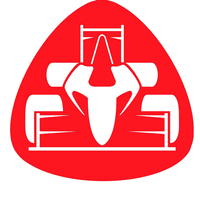
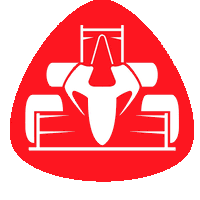
graph semi-functional

diff --git a/main.py b/main.py
@@ -19,7 +19,7 @@ import random
 
 #custom class imports
 from tire_temps import Tire_Temps
-from battery_graph import Battery_Graph
+from parametric_graph import Parametric_Graph
 from parametric_bar import Parametric_Bar
 from pc_status import Pc_Status
 from rpmbar import RpmBar
@@ -30,9 +30,6 @@ from accel import Accel
 from time_table import Time_Table
 from trackmap import TrackMap
 from dashboard import Dashboard
-from left import Left
-from middle import Middle
-from right import Right
 from drs_button import Drs_Button
 
 class Main(Screen):
@@ -42,7 +39,7 @@ class Main(Screen):
 
         #setting up widgets
         self.tire_temps = Tire_Temps(pos_hint={"center_x": 0.5, "y": 0}, size_hint=(0.5, 0.3), temps=[[50, 50, 50, 50], [50, 50, 50, 50], [50, 50, 50, 50], [50, 50, 50, 50]])
-        self.battery = Battery_Graph(pos_hint={"x":0, "y":0.32}, size_hint=(0.3, 0.5), points=[(600,0)])
+        self.battery = Parametric_Graph(pos_hint={"x":0, "y":0.32}, size_hint=(0.25, 0.5), label='Voltage (V)', boundaries=[0, 200, -10, 10])
         self.kw = Parametric_Bar(pos_hint={"x":0.02, "y":0.85}, size_hint=(0.05, 0.13), name="Power(kW)", value=50, max_value=100, color=[0,0,1,1], orientation="vertical")
         self.cur = Parametric_Bar(pos_hint={"x":0.09, "y":0.85}, size_hint=(0.05, 0.13), name="Current(A)", value=0, max_value=100, color=[0,0,1,1], orientation="vertical")
         self.vol = Parametric_Bar(pos_hint={"x":0.16, "y":0.85}, size_hint=(0.05, 0.13), name="Voltage(V)", value=100, max_value=100, color=[0,0,1,1], orientation="vertical")
@@ -55,15 +52,15 @@ class Main(Screen):
         self.bias = Brake_Bias(pos_hint={"x":0.35, "y":0.5}, size_hint=(0.1, 0.1), percentage = 50)
         self.rpmbar = RpmBar(pos_hint ={"x":0.35, "y":0.8},size_hint= (0.35, 0.05), value=8500, max_value=10000, color=[1,0,0,1])
         self.motor_temp = Icon_Indicator(pos_hint={"x": 0.48, "y": 0.5}, size_hint=(0.1, 0.1), name="Motor Temp", value=50, unit="°C", boundaries=[100,120], source="assets/gear.png", color=[1,1,1])
-        self.inv_temp = Icon_Indicator(pos_hint={"x": 0.58, "y": 0.5}, size_hint=(0.1, 0.1), name="Inverter Temp", value=50, unit="°C" , boundaries=[100,120], source="assets/inv.png", color=[1,1,1])
+        self.inv_temp = Icon_Indicator(pos_hint={"x": 0.58, "y": 0.5}, size_hint=(0.1, 0.1), name="Inverter Temp", value=50, unit="°C" , boundaries=[100,120], source="assets/inv.png", color=[1,1,1,1])
         self.bat_temp = Icon_Indicator(pos_hint={"x": 0.68, "y": 0.5}, size_hint=(0.1, 0.1), name="Battery Temp", value=50, unit="°C" , boundaries=[100,120], source="assets/battery2.png", color=[1,1,1,0.1])
         self.gps_speed = Parametric_Label(pos_hint={"x":0.57, "y":0.65}, size_hint=(0.07, 0.1), name1="50", name2="GPS Speed", font1="32sp")
         self.hall_speed = Parametric_Label(pos_hint={"x":0.635, "y":0.65}, size_hint=(0.07, 0.1), name1="50", name2="Sensor Speed", font1="32sp")
         #self.linear_speed = Parametric_Label(pos_hint={"x":0.70, "y":0.65}, size_hint=(0.07, 0.1), name1="50", name2="Linear Speed", font1="32sp")
         self.dashboard = Dashboard(pos_hint={"x":0.03, "y":0.05}, size_hint=(0.1, 0.2))
         self.drs_button = Drs_Button(pos_hint= {"x" : 0.5, "y": 0.65}, size_hint=(0.05, 0.05))
-        self.steering_wheel = Icon_Indicator(pos_hint={"x": 0.6, "y": 0.4}, size_hint=(0.1, 0.1), name="Steering Angle", value=50, unit="°" , boundaries=[100,120], source="assets/steering_wheel.png", color=[1,1,1,1])
-
+        self.steering_wheel = Icon_Indicator(pos_hint={"x": 0.48, "y": 0.35}, size_hint=(0.08, 0.08), name="Steering Angle", value=50, unit="°" , boundaries=[100,120], source="assets/steering_wheel2.png", color=[0.8,0.8,0.8,1], angle =50)
+        
         #adding widgets
         self.add_widget(self.battery)   
         self.add_widget(self.tire_temps)
@@ -91,8 +88,10 @@ class Main(Screen):
         #for testing
         Clock.schedule_interval(self.acc_test, 0.2)
         Clock.schedule_interval(self.rpm, 0.05)
-        Clock.schedule_interval(self.drs_test, 1)
-        #Clock.schedule_interval(self.)
+        Clock.schedule_interval(self.drs_test, 0.5)
+        Clock.schedule_interval(self.steering_wheel_test, 0.5)
+        Clock.schedule_interval(self.graph_test, 0.05)
+        
  
 
     #for testing, steady
@@ -115,4 +114,10 @@ class Main(Screen):
     
     # testing drs butt
     def drs_test(self, dt):
-        self.drs_button.drs = random.randint(0,1)
+        self.drs_button.drs_update = random.randint(0,1)
+
+    def steering_wheel_test(self, dt):
+        self.steering_wheel.icon_update = random.randint(0, 360)
+
+    def graph_test(self, dt):
+        self.battery.update_graph = random.randint(0,1)

diff --git a/parametric_graph.py b/parametric_graph.py
@@ -1,0 +1,56 @@
+#library imports
+from kivy_garden.graph import Graph, MeshLinePlot, Plot
+from kivy.properties import StringProperty, ListProperty, NumericProperty, ObjectProperty
+from kivy.uix.boxlayout import BoxLayout
+from kivy.lang import Builder
+import random
+
+Builder.load_string("""
+<Parametric_Graph>:
+    mygraph: mygraph
+    BoxLayout:
+        size: root.size
+        pos: root.pos 
+        Graph:
+            id: mygraph
+            xlabel: 'Time (mins)'
+            ylabel: root.label
+            x_grid: True
+            x_grid_label: True
+            y_grid: True
+            y_grid_label: True
+            y_ticks_major: 2
+            x_ticks_major: 20
+            xmin: 0
+            xmax: 200 
+            ymin: -10
+            ymax: 10
+        
+""")
+
+
+class Parametric_Graph(BoxLayout):
+    points = ListProperty()
+    value = NumericProperty()
+    time = NumericProperty()
+    label = StringProperty()
+    mygraph = ObjectProperty()
+    update_graph = ObjectProperty()
+    plot = ObjectProperty()
+    boundaries = ListProperty()
+    
+    def __init__(self, **kwargs):
+        super(Parametric_Graph, self).__init__(**kwargs)
+        self.plot = MeshLinePlot(color=[0,1,0,1])
+        self.bind(update_graph= self.update)
+
+    def update(self, *args):
+        self.value += random.randint(-1, 1)
+        self.time += 1
+        self.points.append((self.time, self.value))
+        self.plot.points = self.points
+        self.mygraph.remove_plot(self.plot)
+        self.mygraph.add_plot(self.plot) # this might add points indefenetly. should check if it crashes
+        
+        # possible fix 
+        # self.my.graph.remove_plot(self.plot) # but it doesn't look that good.

diff --git a/icon_indicator.py b/icon_indicator.py
@@ -14,7 +14,14 @@ Builder.load_string('''
         pos_hint: {"x":0,"y":0}
         source: root.source
         color: root.color
-        #opacity: 1
+        canvas.before:
+            PushMatrix
+            Rotate:
+                angle: root.angle
+                origin: root.center
+        canvas.after:
+            PopMatrix
+        
     Label:
         size_hint: 0.4,0.2
         pos_hint: {"x":0.3,"y":0}
@@ -31,13 +38,21 @@ Builder.load_string('''
 
 
 class Icon_Indicator(FloatLayout):
+    angle = NumericProperty()
     value = NumericProperty()
     unit = StringProperty()
     source = StringProperty()
     name = StringProperty()
     color = ColorProperty()
     boundaries = ListProperty()
+    icon_update = NumericProperty()
 
     def __init__(self, **kwargs):
         super(Icon_Indicator, self).__init__(**kwargs)
-        print(self.value)
+        self.bind(icon_update=self.update)
+
+    def update(self, obj, val):
+        if(self.unit == '°'):
+            self.angle = val
+        self.value = val
+    

diff --git a/data_screen.py b/data_screen.py
@@ -2,14 +2,19 @@
 from kivy.core.window import Window
 import kivy
 from kivy.uix.screenmanager import Screen, ScreenManager
+from kivy.properties import ObjectProperty
+from kivy.uix.boxlayout import BoxLayout
 
 #custom class imports
 from pc_status import Pc_Status
-
+from parametric_graph import Parametric_Graph 
 
 class Data_Screen(Screen):
+    
     def __init__(self, **kwargs):
         super(Data_Screen, self).__init__(**kwargs)
-
         self.pc_status = Pc_Status(pos_hint={"x": 0.4, "y": 0.85}, size_hint=(0.2, 0.15))
+        self.speed_graph = Parametric_Graph(pos_hint={"x":0, "y":0.1}, size_hint=(0.5, 0.65), label= 'Voltage (V)')
+
         self.add_widget(self.pc_status)
+        self.add_widget(self.speed_graph)

diff --git a/telemetry.py b/telemetry.py
@@ -18,7 +18,7 @@ import random
 
 #custom class imports
 from tire_temps import Tire_Temps
-from battery_graph import Battery_Graph
+from parametric_graph import Parametric_Graph
 from parametric_bar import Parametric_Bar
 from pc_status import Pc_Status
 from rpmbar import RpmBar
@@ -29,9 +29,6 @@ from accel import Accel
 from time_table import Time_Table
 from trackmap import TrackMap
 from dashboard import Dashboard
-from left import Left
-from middle import Middle
-from right import Right
 from drs_button import Drs_Button
 from main import Main
 from data_screen import Data_Screen

diff --git a/drs_button.py b/drs_button.py
@@ -30,13 +30,13 @@ Builder.load_string("""
 """)
 
 class Drs_Button(FloatLayout):    
-    drs = NumericProperty()
+    drs_update = NumericProperty()
     color = ListProperty([0.043, 0.4, 0.13, 1])
     color1 = ColorProperty([1, 1, 1, 1])
 
     def __init__(self, **kwargs):
         super(Drs_Button, self).__init__(**kwargs)
-        self.bind(drs=self.update)
+        self.bind(drs_update=self.update)
 
     def update(self, obj, val):
         if val:  
